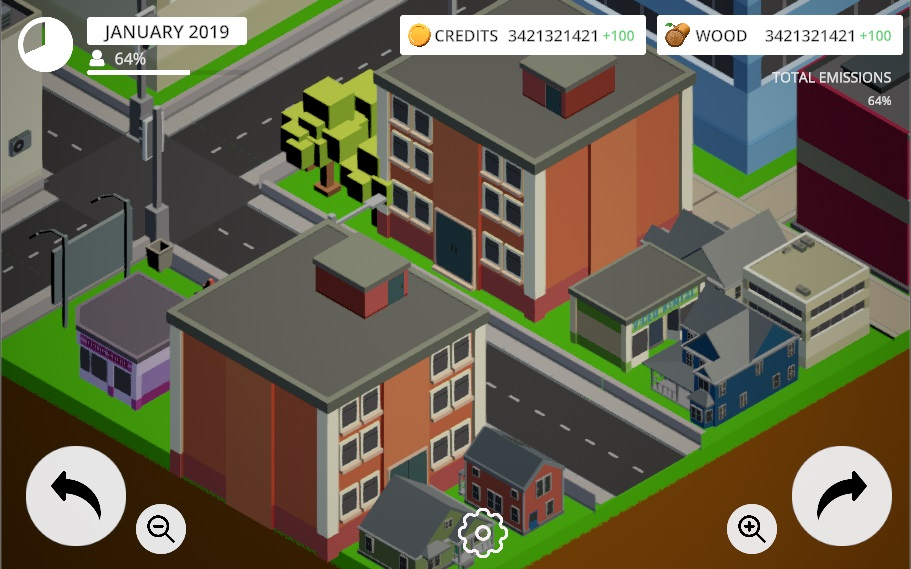
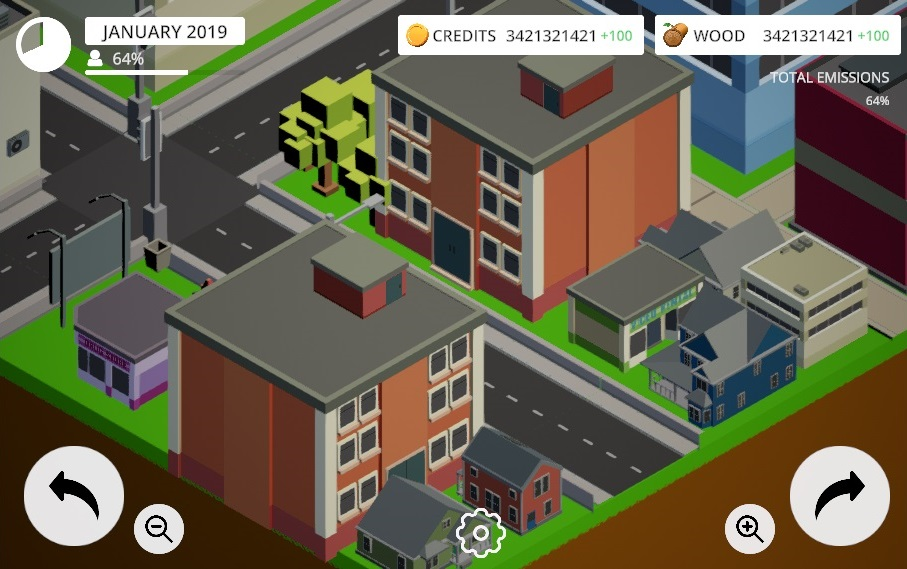
website styling and promotional M A T E R I A L S

diff --git a/index.html b/index.html
@@ -64,32 +64,32 @@
   <!-- About Section -->
   <section id="about" class="about-section text-center">
 		<div class="col-lg-8 mx-auto">
-            <h3 class="text-white mb-4">Can <b>YOU</b> build the best EcoCity?</h3>
-            <h1 class="text-white mb-4"><b>PLAY FOR FREE!</b></h1>
+            <h3 class="text-white mb-4">Can <b style="color:#ffb906">YOU</b> build the best EcoCity?</h3>
+            <h1 class="text-white mb-4"><b style="color:#ffb906">PLAY FOR FREE!</b></h1>
 			<a href="apk/ecocity.apk"><img src="img/play.png" style="width:15vw;padding-bottom:1rem"></img></a>
 		</div>
      <!--<img src="img/nightsky.jpg" class="img-fluid" alt="">-->
   </section>
 
   <!-- Projects Section -->
-  <section id="projects" class="projects-section bg-light" style="background-color: #a7aa9b !important">
+  <section id="projects" class="projects-section bg-light">
     <div class="container">
 
-      <div class="row align-items-center no-gutters mb-4 mb-lg-5" style="background-color:grey;">
+      <div class="row align-items-center no-gutters mb-4 mb-lg-5 bg-black"">
         <div class="col-xl-8 col-lg-7">
           <img class="img-fluid mb-3 mb-lg-0" src="img/beach.jpg" alt="">
         </div>
         <div class="col-xl-4 col-lg-5">
-          <div class="featured-text text-center text-lg-left" style="width:95%">
-            <h4>Build your <b>OWN</b> EcoCity</h4>
-            <p class="text-black-50 mb-0">
+          <div class="featured-text text-center text-lg-left text-white" style="width:95%">
+            <h4>Build your <b style="color:#ffb906">OWN</b> EcoCity</h4>
+            <p class="text-white-50 mb-0">
 				Become the Mayor and build your own EcoCity, the way you want it. 
 				Build houses, upgrade industry to green standards. 
 				Can you be emission free by 2040?
 			</p><br>
-			<p class="text-black-50 mb-0">
+			<p class="text-white-50 mb-0">
 				Your success or failure depends on your knowledge of the Four Pillars of EcoCity.
-				Can you take your city to the next level? 
+				Can you take your city to the next level?
 			</p>
           </div>
         </div>
@@ -124,9 +124,9 @@
               <div class="project-text w-100 my-auto text-center text-lg-left">
 			  <h4 class="text-white">Reviews</h4>
 			  <ul class="mb-0 text-white-50" style="padding-left:0;list-style-type: none;">
-					<li><b style="color:white">5/5</b> "I love strategic city building games like this. This is much better than Cities: Skylines." </li>
-					<li><b style="color:white">5/5</b> "Best city builder I have ever played!"</li>
-					<li><b style="color:white">5/5</b> "If you like games like Boom Beach, Clash of Clans or Mario I think you'll like this one!"</li>
+					<li><b style="color:#ffb906">5/5</b> "I love strategic city building games like this. This is much better than Cities: Skylines." </li>
+					<li><b style="color:#ffb906">5/5</b> "Best city builder I have ever played!"</li>
+					<li><b style="color:#ffb906">5/5</b> "If you like games like Boom Beach, Clash of Clans or Mario I think you'll like this one!"</li>
 				</ul>
                 
               </div>

diff --git a/css/style.css b/css/style.css
@@ -65,26 +65,27 @@
     color: white;
   }
   #mainNav.navbar-shrink {
-    background-color: #fff;
+    background-color: #131c1c;
+	border-bottom: grey 1px solid;
   }
   #mainNav.navbar-shrink .navbar-brand {
     color: #161616;
   }
   #mainNav.navbar-shrink .nav-link {
-    color: #161616;
+    color: #fff;
     padding: 1.5rem 1.5rem 1.25rem;
     border-bottom: 0.25rem solid transparent;
   }
   #mainNav.navbar-shrink .nav-link:hover {
-    color: #64a19d;
+    color: #ffb906;
   }
   #mainNav.navbar-shrink .nav-link:active {
-    color: #467370;
+    color: #ffb906;
   }
   #mainNav.navbar-shrink .nav-link.active {
-    color: #64a19d;
+    color: #ffb906;
     outline: none;
-    border-bottom: 0.25rem solid #64a19d;
+    border-bottom: 0.25rem solid #ffb906;
   }
 }
 
@@ -178,9 +179,10 @@
 }
 
 .about-section {
-  padding: 3rem 0;
-  background: -webkit-gradient(linear, left top, left bottom, from(#161616), color-stop(75%, rgba(22, 22, 22, 0.9)), to(rgba(22, 22, 22, 0.8)));
-  background: linear-gradient(to bottom, #161616 0%, rgba(22, 22, 22, 0.9) 75%, rgba(22, 22, 22, 0.8) 100%);
+  padding: 1.5rem 0;
+  padding-top: 5rem !important;
+  background: -webkit-gradient(linear, left top, left bottom, from(#161616), color-stop(75%, rgba(50, 64, 64, 0.9)), to(rgba(50, 64, 64, 0.8)));
+  background: linear-gradient(to bottom, #161616 0%, rgba(50, 64, 64, 1.0) 100%);
 }
 
 .about-section p {
@@ -220,8 +222,8 @@
 
 .signup-section {
   padding: 10rem 0;
-  background: -webkit-gradient(linear, left top, left bottom, from(rgba(22, 22, 22, 0.1)), color-stop(75%, rgba(22, 22, 22, 0.5)), to(#161616)), url("../img/bg-signup.jpg");
-  background: linear-gradient(to bottom, rgba(22, 22, 22, 0.1) 0%, rgba(22, 22, 22, 0.5) 75%, #161616 100%), url("../img/bg-signup.jpg");
+  background: -webkit-gradient(linear, left top, left bottom, from(rgba(50, 64, 64, 0.1)), color-stop(75%, rgba(50, 64, 64, 0.5)), to(#324040)), url("../img/bg-signup.jpg");
+  background: linear-gradient(to bottom, rgba(50, 64, 64, 0.1) 0%, rgba(50, 64, 64, 0.5) 75%, #324040 100%), url("../img/bg-signup.jpg");
   background-position: center;
   background-repeat: no-repeat;
   background-attachment: scroll;
@@ -313,4 +315,14 @@ a:focus, a:hover {
 footer {
   padding: 5rem 0;
 }
+
+.bg-black {
+	background-color: #131c1c !important; 
+}
+
+.bg-light {
+	background-color: #324040 !important;
+}
+
+
 
